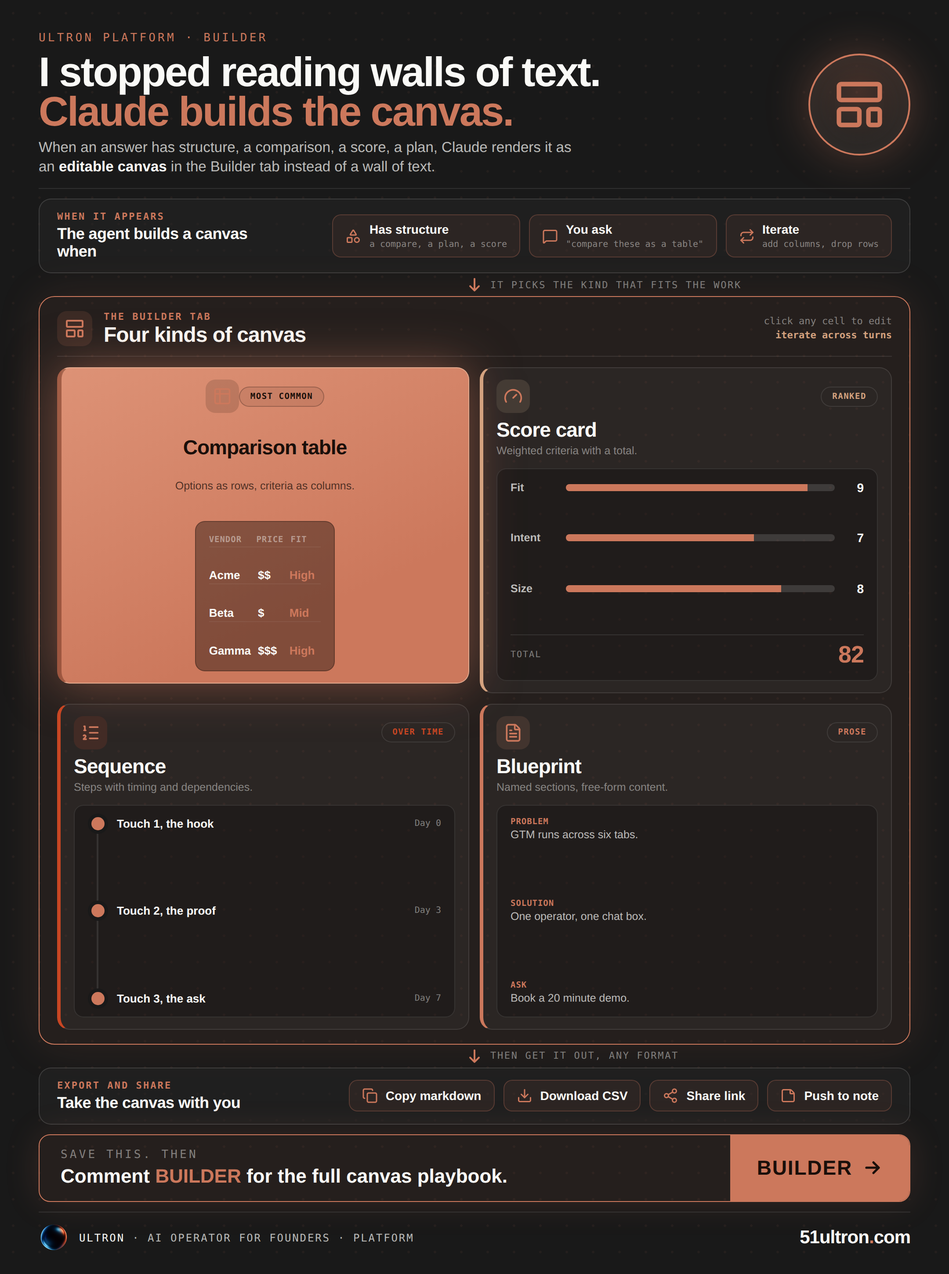
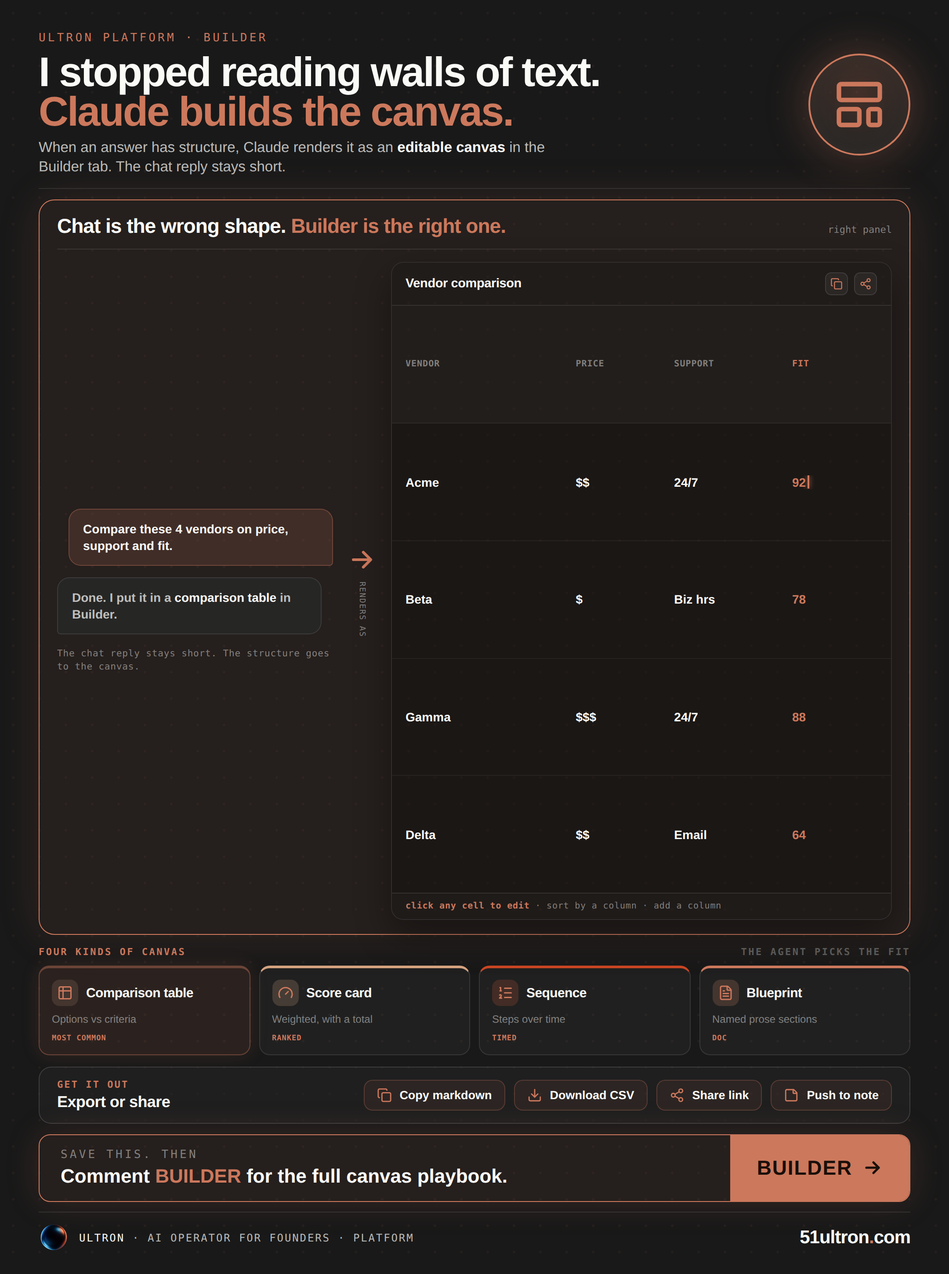
docs-07 Builder LinkedIn: redesign to a distinct archetype (chat-to-canvas)
Operator: it resembled Brain (both used the 2x2 mockup grid); each material must
have its own differentiation criterion. Rebuilt Builder around its own archetype,
the chat-to-canvas transformation: focal split with a short chat thread on the
left, an arrow, and a big realistic editable canvas (a Vendor comparison table
with a sorted column and a cell in edit) on the right. The four canvas kinds now
sit in a horizontal strip (not a 2x2 grid): Comparison (active), Score, Sequence,
Blueprint. Export band + Comment BUILDER. Logged the one-archetype-per-material
rule in analysis. Dark Ultron, 1450px, metadata scrubbed.

https://claude.ai/code/session_018fS7xMwDiJUxoNS3zo3BKw

diff --git a/content/docs-07-builder-linkedin-v1.html b/content/docs-07-builder-linkedin-v1.html
@@ -6,74 +6,64 @@ body{background:#0d0d0d;display:flex;justify-content:center;padding:24px 0;font-
 .frame::before{content:'';position:absolute;inset:0;pointer-events:none;z-index:0;background-image:radial-gradient(rgba(204,120,92,.06) 1.4px,transparent 1.5px);background-size:30px 30px;}
 .atm{position:absolute;inset:0;pointer-events:none;z-index:1;background:radial-gradient(ellipse 56% 26% at 88% -1%,rgba(204,120,92,.18) 0%,transparent 60%),radial-gradient(ellipse 50% 22% at 4% 101%,rgba(212,162,127,.09) 0%,transparent 60%);}
 .frame>*{position:relative;z-index:2;}
-.hero{flex-shrink:0;display:flex;align-items:center;justify-content:space-between;gap:20px;padding-bottom:13px;border-bottom:1px solid var(--rule);margin-bottom:11px;}
+.hero{flex-shrink:0;display:flex;align-items:center;justify-content:space-between;gap:20px;padding-bottom:13px;border-bottom:1px solid var(--rule);margin-bottom:12px;}
 .eye{font-family:'DM Mono',monospace;font-size:13px;font-weight:500;letter-spacing:.2em;text-transform:uppercase;color:var(--book);margin-bottom:8px;}
 .hook{font-weight:900;font-size:47px;line-height:.96;letter-spacing:-1.5px;}.hook em{color:var(--book);font-style:normal;}
 .sub{margin-top:8px;font-size:16.5px;font-weight:500;line-height:1.34;color:var(--ink70);max-width:620px;}.sub b{color:var(--ivory);font-weight:700;}
 .gw{flex-shrink:0;width:116px;height:116px;border-radius:50%;background:radial-gradient(circle at 50% 36%,rgba(204,120,92,.24),var(--slate2) 72%);border:2px solid var(--book);box-shadow:0 0 50px rgba(204,120,92,.32),inset 0 0 30px rgba(204,120,92,.1);display:flex;align-items:center;justify-content:center;}
 .gw svg{width:62px;height:62px;}
 .flow{flex:1;display:flex;flex-direction:column;min-height:0;}
-.arrow{flex-shrink:0;display:flex;align-items:center;justify-content:center;color:var(--book);height:26px;position:relative;}
-.arrow .lbl{position:absolute;left:calc(50% + 18px);font-family:'DM Mono',monospace;font-size:11px;font-weight:500;letter-spacing:.12em;text-transform:uppercase;color:var(--ink46);white-space:nowrap;}
-.arrow svg{width:20px;height:20px;stroke:var(--book);stroke-width:2.4;fill:none;stroke-linecap:round;stroke-linejoin:round;}
-.band{flex-shrink:0;background:rgba(38,38,37,.5);border:1px solid var(--ink14);border-radius:14px;padding:13px 20px;display:flex;align-items:center;gap:18px;}
-.band .bt{flex-shrink:0;}
-.band .bt .k{font-family:'DM Mono',monospace;font-size:11px;font-weight:600;letter-spacing:.14em;text-transform:uppercase;color:var(--book);margin-bottom:4px;}
-.band .bt .h{font-size:18px;font-weight:800;letter-spacing:-.3px;color:var(--ivory);line-height:1.1;max-width:250px;}
+/* FOCAL = chat -> canvas split (Builder's own archetype) */
+.focal{flex:1;min-height:0;background:rgba(204,120,92,.07);border:1.5px solid var(--book);border-radius:18px;box-shadow:0 0 50px rgba(204,120,92,.14);padding:16px 20px;display:flex;flex-direction:column;}
+.focal-h{display:flex;align-items:baseline;gap:12px;flex-shrink:0;padding-bottom:12px;border-bottom:1px solid var(--rule);}
+.focal-h .h{font-size:23px;font-weight:900;letter-spacing:-.5px;color:var(--ivory);}.focal-h .h em{color:var(--book);font-style:normal;}
+.focal-h .meta{margin-left:auto;font-family:'DM Mono',monospace;font-size:11px;color:var(--ink46);}
+.split2{flex:1;min-height:0;display:flex;align-items:stretch;gap:16px;padding-top:14px;}
+.chatcol{width:33%;display:flex;flex-direction:column;justify-content:center;gap:13px;flex-shrink:0;}
+.cbub{padding:13px 16px;font-size:14px;font-weight:600;line-height:1.32;max-width:96%;}
+.cbub.u{background:rgba(204,120,92,.16);border:1px solid rgba(204,120,92,.34);color:var(--ivory);align-self:flex-end;border-radius:14px 14px 4px 14px;}
+.cbub.a{background:var(--slate2);border:1px solid var(--rule);color:var(--ink70);align-self:flex-start;border-radius:14px 14px 14px 4px;}
+.cbub.a b{color:var(--ivory);font-weight:700;}
+.chint{font-family:'DM Mono',monospace;font-size:10.5px;letter-spacing:.04em;color:var(--ink46);line-height:1.4;margin-top:2px;}
+.sarrow2{flex-shrink:0;align-self:center;display:flex;flex-direction:column;align-items:center;gap:8px;color:var(--book);}
+.sarrow2 svg{width:34px;height:34px;stroke:var(--book);stroke-width:2.2;fill:none;stroke-linecap:round;stroke-linejoin:round;}
+.sarrow2 span{font-family:'DM Mono',monospace;font-size:9px;letter-spacing:.1em;text-transform:uppercase;color:var(--ink46);writing-mode:vertical-rl;}
+.cv{flex:1;min-width:0;background:rgba(0,0,0,.26);border:1px solid var(--rule);border-radius:14px;display:flex;flex-direction:column;overflow:hidden;box-shadow:0 16px 40px rgba(0,0,0,.34);}
+.cv-bar{display:flex;align-items:center;justify-content:space-between;padding:11px 16px;border-bottom:1px solid var(--rule);background:rgba(255,255,255,.025);}
+.cv-nm{font-size:14.5px;font-weight:800;color:var(--ivory);letter-spacing:-.2px;}
+.cv-act{display:flex;gap:7px;}.cv-act i{width:26px;height:26px;border-radius:7px;background:rgba(250,250,247,.05);border:1px solid var(--rule);display:flex;align-items:center;justify-content:center;}.cv-act i svg{width:14px;height:14px;}
+.cvtbl{flex:1;display:flex;flex-direction:column;}
+.cvr{display:grid;grid-template-columns:1.25fr .7fr .85fr .65fr;gap:8px;align-items:center;padding:0 16px;border-bottom:1px solid rgba(250,250,247,.05);}
+.cvr:last-child{border-bottom:none;}
+.cvtbl .cvr{flex:1;}
+.cvr span{font-size:14px;font-weight:700;color:var(--ivory);white-space:nowrap;overflow:hidden;text-overflow:ellipsis;}
+.cvr.h{background:rgba(255,255,255,.03);}
+.cvr.h span{font-family:'DM Mono',monospace;font-size:10px;font-weight:600;letter-spacing:.05em;text-transform:uppercase;color:var(--ink46);}
+.cvr .srt,.cvr.h .srt{color:var(--book);}
+.edit{position:relative;color:var(--book) !important;}
+.edit::after{content:'';display:inline-block;width:2px;height:15px;background:var(--book);margin-left:2px;vertical-align:-2px;box-shadow:0 0 6px var(--book);}
+.cv-foot{font-family:'DM Mono',monospace;font-size:10px;letter-spacing:.04em;color:var(--ink46);padding:9px 16px;border-top:1px solid var(--rule);background:rgba(255,255,255,.02);}
+.cv-foot b{color:var(--book);font-weight:600;}
+/* kinds strip (horizontal, not a grid) */
+.mod{flex-shrink:0;margin-top:13px;}
+.sec{font-family:'DM Mono',monospace;font-size:11px;font-weight:600;letter-spacing:.16em;text-transform:uppercase;color:var(--book);margin-bottom:9px;display:flex;justify-content:space-between;}
+.sec .sx{color:var(--ink30);}
+.ksrow{display:grid;grid-template-columns:repeat(4,1fr);gap:10px;}
+.kcard{background:rgba(255,255,255,.03);border:1px solid var(--rule);border-top:3px solid var(--c);border-radius:12px;padding:13px 14px;}
+.kcard.on{background:rgba(204,120,92,.1);border-color:rgba(204,120,92,.4);box-shadow:0 0 22px rgba(204,120,92,.14);}
+.kc-t{display:flex;align-items:center;gap:9px;margin-bottom:8px;}
+.kc-ic{width:30px;height:30px;border-radius:9px;background:color-mix(in srgb,var(--c) 18%,var(--slate2));display:flex;align-items:center;justify-content:center;flex-shrink:0;}.kc-ic svg{width:18px;height:18px;}
+.kc-nm{font-size:15px;font-weight:800;letter-spacing:-.3px;color:var(--ivory);line-height:1;}
+.kc-d{font-size:12px;font-weight:500;color:var(--ink46);line-height:1.3;}
+.kc-tag{font-family:'DM Mono',monospace;font-size:8.5px;font-weight:600;letter-spacing:.06em;text-transform:uppercase;color:var(--book);margin-top:8px;}
+.band{flex-shrink:0;margin-top:13px;background:rgba(38,38,37,.5);border:1px solid var(--ink14);border-radius:14px;padding:13px 20px;display:flex;align-items:center;gap:18px;}
+.band .bt{flex-shrink:0;}.band .bt .k{font-family:'DM Mono',monospace;font-size:11px;font-weight:600;letter-spacing:.14em;text-transform:uppercase;color:var(--book);margin-bottom:4px;}
+.band .bt .h{font-size:18px;font-weight:800;letter-spacing:-.3px;color:var(--ivory);line-height:1.1;}
 .chips{display:flex;gap:10px;flex:1;justify-content:flex-end;flex-wrap:wrap;}
 .chip{display:flex;align-items:center;gap:9px;background:rgba(204,120,92,.08);border:1px solid rgba(204,120,92,.28);border-radius:10px;padding:8px 14px;}
-.chip .ci{width:18px;height:18px;flex-shrink:0;}.chip .ci svg{width:100%;height:100%;}
-.chip .ct{font-size:14px;font-weight:700;color:var(--ivory);line-height:1.05;}.chip .cs{display:block;font-family:'DM Mono',monospace;font-size:10px;font-weight:500;color:var(--ink46);margin-top:2px;}
-.focal{flex:1;min-height:0;background:rgba(204,120,92,.07);border:1.5px solid var(--book);border-radius:18px;box-shadow:0 0 50px rgba(204,120,92,.14);padding:16px 20px;display:flex;flex-direction:column;}
-.focal-h{display:flex;align-items:center;gap:13px;flex-shrink:0;padding-bottom:11px;border-bottom:1px solid var(--rule);}
-.fhi{width:40px;height:40px;border-radius:11px;background:rgba(204,120,92,.14);display:flex;align-items:center;justify-content:center;flex-shrink:0;}.fhi svg{width:24px;height:24px;}
-.focal-h .k{font-family:'DM Mono',monospace;font-size:11px;font-weight:600;letter-spacing:.14em;text-transform:uppercase;color:var(--book);margin-bottom:3px;}
-.focal-h .h{font-size:24px;font-weight:900;letter-spacing:-.5px;color:var(--ivory);line-height:1;}
-.focal-h .meta{margin-left:auto;text-align:right;font-family:'DM Mono',monospace;font-size:11px;font-weight:500;color:var(--ink46);line-height:1.5;}
-.focal-h .meta b{color:var(--kraft);font-weight:700;}
-.bgrid{flex:1;min-height:0;display:grid;grid-template-columns:1fr 1fr;grid-template-rows:1fr 1fr;gap:12px;padding-top:12px;}
-.scard{background:rgba(255,255,255,.03);border:1px solid var(--rule);border-left:4px solid var(--c);border-radius:14px;padding:13px 15px;display:flex;flex-direction:column;}
-.scard.hero{background:linear-gradient(155deg,#dd9276 0%,var(--book) 72%);border:1.5px solid #e3a98d;border-left:5px solid #59281769;box-shadow:0 0 56px rgba(204,120,92,.5);}
-.scard.hero .snm,.scard.hero .sct .stag{color:#1a0f0a;}
-.scard.hero .slead{color:rgba(26,15,10,.72);}
-.scard.hero .sic{background:rgba(26,15,10,.15);}
-.scard.hero .stag{border-color:rgba(26,15,10,.26);background:rgba(26,15,10,.08);}
-.scard.hero .mock{background:rgba(18,11,7,.4);border-color:rgba(26,15,10,.3);}
-.sct{display:flex;align-items:center;justify-content:space-between;margin-bottom:8px;}
-.sic{width:38px;height:38px;border-radius:11px;background:color-mix(in srgb,var(--c) 17%,var(--slate2));display:flex;align-items:center;justify-content:center;}.sic svg{width:22px;height:22px;}
-.stag{font-family:'DM Mono',monospace;font-size:9.5px;font-weight:600;letter-spacing:.08em;text-transform:uppercase;color:var(--c);border:1px solid var(--rule);padding:5px 12px;border-radius:20px;}
-.snm{font-size:23px;font-weight:900;letter-spacing:-.5px;color:var(--ivory);line-height:1;}
-.slead{font-size:12.5px;font-weight:500;color:var(--ink46);line-height:1.25;margin-top:5px;}
-.mock{flex:1;margin-top:11px;background:rgba(0,0,0,.24);border:1px solid var(--rule);border-radius:11px;padding:13px 15px;display:flex;flex-direction:column;overflow:hidden;}
-/* comparison table */
-.ctbl{flex:1;display:flex;flex-direction:column;justify-content:space-between;}
-.ctr{display:grid;grid-template-columns:1.2fr .7fr .9fr;gap:8px;align-items:center;border-bottom:1px solid rgba(250,250,247,.06);padding:2px 0;}
-.ctr:last-child{border-bottom:none;}
-.ctr span{font-size:13px;font-weight:700;color:var(--ivory);}
-.ctr.h span{font-family:'DM Mono',monospace;font-size:9.5px;font-weight:600;letter-spacing:.05em;text-transform:uppercase;color:var(--ink46);}
-.ctr .srt{color:var(--book);}
-/* score card */
-.scc{flex:1;display:flex;flex-direction:column;justify-content:space-between;}
-.scr{display:flex;align-items:center;gap:11px;}
-.scr .nm{font-size:12.5px;font-weight:600;color:var(--ink70);width:52px;flex-shrink:0;}
-.scr .bar{flex:1;height:8px;border-radius:4px;background:var(--ink14);overflow:hidden;}.scr .bar i{display:block;height:100%;background:var(--book);}
-.scr .v{font-size:14px;font-weight:800;color:var(--ivory);width:22px;text-align:right;}
-.sctot{display:flex;align-items:center;justify-content:space-between;border-top:1px solid var(--rule);padding-top:7px;margin-top:2px;}
-.sctot .l{font-family:'DM Mono',monospace;font-size:10px;letter-spacing:.1em;text-transform:uppercase;color:var(--ink46);}
-.sctot .big{font-size:27px;font-weight:900;color:var(--book);letter-spacing:-.5px;}
-/* sequence */
-.sqc{flex:1;display:flex;flex-direction:column;justify-content:space-between;position:relative;padding-left:4px;}
-.sqc::before{content:'';position:absolute;left:10px;top:8px;bottom:8px;width:2px;background:var(--rule);}
-.sqs{display:flex;align-items:center;gap:14px;position:relative;z-index:2;}
-.sqs .dot{width:15px;height:15px;border-radius:50%;background:var(--book);flex-shrink:0;box-shadow:0 0 0 4px var(--slate);}
-.sqs .lb{flex:1;font-size:13px;font-weight:700;color:var(--ivory);}
-.sqs .day{font-family:'DM Mono',monospace;font-size:10px;font-weight:500;color:var(--ink46);}
-/* blueprint */
-.bpc{flex:1;display:flex;flex-direction:column;justify-content:space-between;}
-.bps{display:flex;flex-direction:column;gap:2px;}
-.bps .sn{font-family:'DM Mono',monospace;font-size:9.5px;font-weight:600;letter-spacing:.05em;text-transform:uppercase;color:var(--book);}
-.bps .st{font-size:12.5px;font-weight:500;color:var(--ink70);line-height:1.2;}
-.cta{flex-shrink:0;margin-top:11px;display:flex;align-items:stretch;border:1px solid var(--book);border-radius:13px;overflow:hidden;box-shadow:0 0 40px rgba(204,120,92,.16);}
+.chip .ci{width:17px;height:17px;flex-shrink:0;}.chip .ci svg{width:100%;height:100%;}
+.chip .ct{font-size:13.5px;font-weight:700;color:var(--ivory);}
+.cta{flex-shrink:0;margin-top:12px;display:flex;align-items:stretch;border:1px solid var(--book);border-radius:13px;overflow:hidden;box-shadow:0 0 40px rgba(204,120,92,.16);}
 .cta-l{flex:1;padding:15px 24px;display:flex;flex-direction:column;justify-content:center;gap:4px;background:rgba(204,120,92,.07);}
 .cta-k{font-family:'DM Mono',monospace;font-size:13px;font-weight:500;letter-spacing:.2em;text-transform:uppercase;color:var(--ink46);}
 .cta-t{font-size:22px;font-weight:700;color:var(--ivory);line-height:1.2;}.cta-t b{color:var(--book);font-weight:900;}
@@ -83,4 +73,4 @@ body{background:#0d0d0d;display:flex;justify-content:center;padding:24px 0;font-
 .fl{display:flex;align-items:center;gap:12px;min-width:0;}.flogo{width:34px;height:34px;border-radius:50%;object-fit:cover;}
 .ftx{font-family:'DM Mono',monospace;font-size:12px;font-weight:400;letter-spacing:.12em;text-transform:uppercase;color:var(--ink70);}.ftx b{color:var(--ivory);font-weight:500;}
 .furl{font-weight:900;font-size:21px;letter-spacing:-.5px;color:var(--ivory);}.furl em{color:var(--book);font-style:normal;}
-</style></head><body><div class="frame" id="artifact"><div class="atm"></div><div class="hero"><div><div class="eye">Ultron Platform &middot; Builder</div><div class="hook">I stopped reading walls of text.<br><em>Claude builds the canvas.</em></div><div class="sub">When an answer has structure, a comparison, a score, a plan, Claude renders it as an <b>editable canvas</b> in the Builder tab instead of a wall of text.</div></div><div class="gw"><svg xmlns="http://www.w3.org/2000/svg" width="1em" height="1em" viewBox="0 0 24 24"><g fill="none" stroke="#CC785C" stroke-linecap="round" stroke-linejoin="round" stroke-width="2"><rect width="18" height="7" x="3" y="3" rx="1"/><rect width="9" height="7" x="3" y="14" rx="1"/><rect width="5" height="7" x="16" y="14" rx="1"/></g></svg></div></div><div class="flow"><div class="band"><div class="bt"><div class="k">When it appears</div><div class="h">The agent builds a canvas when</div></div><div class="chips"><div class="chip"><span class="ci"><svg xmlns="http://www.w3.org/2000/svg" width="1em" height="1em" viewBox="0 0 24 24"><g fill="none" stroke="#CC785C" stroke-linecap="round" stroke-linejoin="round" stroke-width="2"><path d="M8.3 10a.7.7 0 0 1-.626-1.079L11.4 3a.7.7 0 0 1 1.198-.043L16.3 8.9a.7.7 0 0 1-.572 1.1Z"/><rect width="7" height="7" x="3" y="14" rx="1"/><circle cx="17.5" cy="17.5" r="3.5"/></g></svg></span><span><span class="ct">Has structure</span><span class="cs">a compare, a plan, a score</span></span></div><div class="chip"><span class="ci"><svg xmlns="http://www.w3.org/2000/svg" width="1em" height="1em" viewBox="0 0 24 24"><path fill="none" stroke="#CC785C" stroke-linecap="round" stroke-linejoin="round" stroke-width="2" d="M22 17a2 2 0 0 1-2 2H6.828a2 2 0 0 0-1.414.586l-2.202 2.202A.71.71 0 0 1 2 21.286V5a2 2 0 0 1 2-2h16a2 2 0 0 1 2 2z"/></svg></span><span><span class="ct">You ask</span><span class="cs">"compare these as a table"</span></span></div><div class="chip"><span class="ci"><svg xmlns="http://www.w3.org/2000/svg" width="1em" height="1em" viewBox="0 0 24 24"><g fill="none" stroke="#CC785C" stroke-linecap="round" stroke-linejoin="round" stroke-width="2"><path d="m17 2l4 4l-4 4"/><path d="M3 11v-1a4 4 0 0 1 4-4h14M7 22l-4-4l4-4"/><path d="M21 13v1a4 4 0 0 1-4 4H3"/></g></svg></span><span><span class="ct">Iterate</span><span class="cs">add columns, drop rows</span></span></div></div></div><div class="arrow"><svg viewBox="0 0 24 24"><path d="M12 4v16M6 14l6 6 6-6"/></svg><span class="lbl">it picks the kind that fits the work</span></div><div class="focal"><div class="focal-h"><div class="fhi"><svg xmlns="http://www.w3.org/2000/svg" width="1em" height="1em" viewBox="0 0 24 24"><g fill="none" stroke="#CC785C" stroke-linecap="round" stroke-linejoin="round" stroke-width="2"><rect width="18" height="7" x="3" y="3" rx="1"/><rect width="9" height="7" x="3" y="14" rx="1"/><rect width="5" height="7" x="16" y="14" rx="1"/></g></svg></div><div><div class="k">The Builder tab</div><div class="h">Four kinds of canvas</div></div><div class="meta">click any cell to edit<br><b>iterate across turns</b></div></div><div class="bgrid"><div class="scard hero" style="--c:var(--book)"><div class="sct"><span class="sic"><svg xmlns="http://www.w3.org/2000/svg" width="1em" height="1em" viewBox="0 0 24 24"><path fill="none" stroke="#CC785C" stroke-linecap="round" stroke-linejoin="round" stroke-width="2" d="M9 3H5a2 2 0 0 0-2 2v4m6-6h10a2 2 0 0 1 2 2v4M9 3v18m0 0h10a2 2 0 0 0 2-2V9M9 21H5a2 2 0 0 1-2-2V9m0 0h18"/></svg></span><span class="stag">most common</span></div><div class="snm">Comparison table</div><div class="slead">Options as rows, criteria as columns.</div><div class="mock"><div class="ctbl"><div class="ctr h"><span>Vendor</span><span>Price</span><span class="srt">Fit</span></div><div class="ctr"><span>Acme</span><span>$$</span><span class="srt">High</span></div><div class="ctr"><span>Beta</span><span>$</span><span class="srt">Mid</span></div><div class="ctr"><span>Gamma</span><span>$$$</span><span class="srt">High</span></div></div></div></div><div class="scard" style="--c:var(--kraft)"><div class="sct"><span class="sic"><svg xmlns="http://www.w3.org/2000/svg" width="1em" height="1em" viewBox="0 0 24 24"><path fill="none" stroke="#CC785C" stroke-linecap="round" stroke-linejoin="round" stroke-width="2" d="m12 14l4-4M3.34 19a10 10 0 1 1 17.32 0"/></svg></span><span class="stag">ranked</span></div><div class="snm">Score card</div><div class="slead">Weighted criteria with a total.</div><div class="mock"><div class="scc"><div class="scr"><span class="nm">Fit</span><span class="bar"><i style="width:90%"></i></span><span class="v">9</span></div><div class="scr"><span class="nm">Intent</span><span class="bar"><i style="width:70%"></i></span><span class="v">7</span></div><div class="scr"><span class="nm">Size</span><span class="bar"><i style="width:80%"></i></span><span class="v">8</span></div><div class="sctot"><span class="l">Total</span><span class="big">82</span></div></div></div></div><div class="scard" style="--c:var(--book-d)"><div class="sct"><span class="sic"><svg xmlns="http://www.w3.org/2000/svg" width="1em" height="1em" viewBox="0 0 24 24"><path fill="none" stroke="#CC785C" stroke-linecap="round" stroke-linejoin="round" stroke-width="2" d="M11 5h10m-10 7h10m-10 7h10M4 4h1v5M4 9h2m.5 11H3.4c0-1 2.6-1.925 2.6-3.5a1.5 1.5 0 0 0-2.6-1.02"/></svg></span><span class="stag">over time</span></div><div class="snm">Sequence</div><div class="slead">Steps with timing and dependencies.</div><div class="mock"><div class="sqc"><div class="sqs"><span class="dot"></span><span class="lb">Touch 1, the hook</span><span class="day">Day 0</span></div><div class="sqs"><span class="dot"></span><span class="lb">Touch 2, the proof</span><span class="day">Day 3</span></div><div class="sqs"><span class="dot"></span><span class="lb">Touch 3, the ask</span><span class="day">Day 7</span></div></div></div></div><div class="scard" style="--c:var(--book)"><div class="sct"><span class="sic"><svg xmlns="http://www.w3.org/2000/svg" width="1em" height="1em" viewBox="0 0 24 24"><g fill="none" stroke="#CC785C" stroke-linecap="round" stroke-linejoin="round" stroke-width="2"><path d="M6 22a2 2 0 0 1-2-2V4a2 2 0 0 1 2-2h8a2.4 2.4 0 0 1 1.704.706l3.588 3.588A2.4 2.4 0 0 1 20 8v12a2 2 0 0 1-2 2z"/><path d="M14 2v5a1 1 0 0 0 1 1h5M10 9H8m8 4H8m8 4H8"/></g></svg></span><span class="stag">prose</span></div><div class="snm">Blueprint</div><div class="slead">Named sections, free-form content.</div><div class="mock"><div class="bpc"><div class="bps"><span class="sn">Problem</span><span class="st">GTM runs across six tabs.</span></div><div class="bps"><span class="sn">Solution</span><span class="st">One operator, one chat box.</span></div><div class="bps"><span class="sn">Ask</span><span class="st">Book a 20 minute demo.</span></div></div></div></div></div></div><div class="arrow"><svg viewBox="0 0 24 24"><path d="M12 4v16M6 14l6 6 6-6"/></svg><span class="lbl">then get it out, any format</span></div><div class="band"><div class="bt"><div class="k">Export and share</div><div class="h">Take the canvas with you</div></div><div class="chips"><div class="chip"><span class="ci"><svg xmlns="http://www.w3.org/2000/svg" width="1em" height="1em" viewBox="0 0 24 24"><g fill="none" stroke="#CC785C" stroke-linecap="round" stroke-linejoin="round" stroke-width="2"><rect width="14" height="14" x="8" y="8" rx="2" ry="2"/><path d="M4 16c-1.1 0-2-.9-2-2V4c0-1.1.9-2 2-2h10c1.1 0 2 .9 2 2"/></g></svg></span><span class="ct">Copy markdown</span></div><div class="chip"><span class="ci"><svg xmlns="http://www.w3.org/2000/svg" width="1em" height="1em" viewBox="0 0 24 24"><g fill="none" stroke="#CC785C" stroke-linecap="round" stroke-linejoin="round" stroke-width="2"><path d="M12 15V3m9 12v4a2 2 0 0 1-2 2H5a2 2 0 0 1-2-2v-4"/><path d="m7 10l5 5l5-5"/></g></svg></span><span class="ct">Download CSV</span></div><div class="chip"><span class="ci"><svg xmlns="http://www.w3.org/2000/svg" width="1em" height="1em" viewBox="0 0 24 24"><g fill="none" stroke="#CC785C" stroke-linecap="round" stroke-linejoin="round" stroke-width="2"><circle cx="18" cy="5" r="3"/><circle cx="6" cy="12" r="3"/><circle cx="18" cy="19" r="3"/><path d="m8.59 13.51l6.83 3.98m-.01-10.98l-6.82 3.98"/></g></svg></span><span class="ct">Share link</span></div><div class="chip"><span class="ci"><svg xmlns="http://www.w3.org/2000/svg" width="1em" height="1em" viewBox="0 0 24 24"><g fill="none" stroke="#CC785C" stroke-linecap="round" stroke-linejoin="round" stroke-width="2"><path d="M21 9a2.4 2.4 0 0 0-.706-1.706l-3.588-3.588A2.4 2.4 0 0 0 15 3H5a2 2 0 0 0-2 2v14a2 2 0 0 0 2 2h14a2 2 0 0 0 2-2z"/><path d="M15 3v5a1 1 0 0 0 1 1h5"/></g></svg></span><span class="ct">Push to note</span></div></div></div></div><div class="cta"><div class="cta-l"><div class="cta-k">Save this. Then</div><div class="cta-t">Comment <b>BUILDER</b> for the full canvas playbook.</div></div><div class="cta-chip">BUILDER <svg viewBox="0 0 24 24"><path d="M5 12h14M13 6l6 6-6 6"/></svg></div></div><div class="ftr"><div class="fl"><img class="flogo" src="__LOGO__" alt="Ultron"><div class="ftx"><b>ULTRON</b> &middot; AI OPERATOR FOR FOUNDERS &middot; PLATFORM</div></div><div class="furl">51ultron<em>.</em>com</div></div></div></body></html>
+</style></head><body><div class="frame" id="artifact"><div class="atm"></div><div class="hero"><div><div class="eye">Ultron Platform &middot; Builder</div><div class="hook">I stopped reading walls of text.<br><em>Claude builds the canvas.</em></div><div class="sub">When an answer has structure, Claude renders it as an <b>editable canvas</b> in the Builder tab. The chat reply stays short.</div></div><div class="gw"><svg xmlns="http://www.w3.org/2000/svg" width="1em" height="1em" viewBox="0 0 24 24"><g fill="none" stroke="#CC785C" stroke-linecap="round" stroke-linejoin="round" stroke-width="2"><rect width="18" height="7" x="3" y="3" rx="1"/><rect width="9" height="7" x="3" y="14" rx="1"/><rect width="5" height="7" x="16" y="14" rx="1"/></g></svg></div></div><div class="flow"><div class="focal"><div class="focal-h"><div class="h">Chat is the wrong shape. <em>Builder is the right one.</em></div><div class="meta">right panel</div></div><div class="split2"><div class="chatcol"><div class="cbub u">Compare these 4 vendors on price, support and fit.</div><div class="cbub a">Done. I put it in a <b>comparison table</b> in Builder.</div><div class="chint">The chat reply stays short. The structure goes to the canvas.</div></div><div class="sarrow2"><svg viewBox="0 0 24 24"><path d="M5 12h14M13 6l6 6-6 6"/></svg><span>renders as</span></div><div class="cv"><div class="cv-bar"><span class="cv-nm">Vendor comparison</span><div class="cv-act"><i><svg xmlns="http://www.w3.org/2000/svg" width="1em" height="1em" viewBox="0 0 24 24"><g fill="none" stroke="#CC785C" stroke-linecap="round" stroke-linejoin="round" stroke-width="2"><rect width="14" height="14" x="8" y="8" rx="2" ry="2"/><path d="M4 16c-1.1 0-2-.9-2-2V4c0-1.1.9-2 2-2h10c1.1 0 2 .9 2 2"/></g></svg></i><i><svg xmlns="http://www.w3.org/2000/svg" width="1em" height="1em" viewBox="0 0 24 24"><g fill="none" stroke="#CC785C" stroke-linecap="round" stroke-linejoin="round" stroke-width="2"><circle cx="18" cy="5" r="3"/><circle cx="6" cy="12" r="3"/><circle cx="18" cy="19" r="3"/><path d="m8.59 13.51l6.83 3.98m-.01-10.98l-6.82 3.98"/></g></svg></i></div></div><div class="cvtbl"><div class="cvr h"><span>Vendor</span><span>Price</span><span>Support</span><span class="srt">Fit</span></div><div class="cvr"><span>Acme</span><span>$$</span><span>24/7</span><span class="edit srt">92</span></div><div class="cvr"><span>Beta</span><span>$</span><span>Biz hrs</span><span class="srt">78</span></div><div class="cvr"><span>Gamma</span><span>$$$</span><span>24/7</span><span class="srt">88</span></div><div class="cvr"><span>Delta</span><span>$$</span><span>Email</span><span class="srt">64</span></div></div><div class="cv-foot"><b>click any cell to edit</b> &middot; sort by a column &middot; add a column</div></div></div></div><div class="mod"><div class="sec"><span>Four kinds of canvas</span><span class="sx">the agent picks the fit</span></div><div class="ksrow"><div class="kcard on" style="--c:var(--book)"><div class="kc-t"><span class="kc-ic"><svg xmlns="http://www.w3.org/2000/svg" width="1em" height="1em" viewBox="0 0 24 24"><path fill="none" stroke="#CC785C" stroke-linecap="round" stroke-linejoin="round" stroke-width="2" d="M9 3H5a2 2 0 0 0-2 2v4m6-6h10a2 2 0 0 1 2 2v4M9 3v18m0 0h10a2 2 0 0 0 2-2V9M9 21H5a2 2 0 0 1-2-2V9m0 0h18"/></svg></span><span class="kc-nm">Comparison table</span></div><div class="kc-d">Options vs criteria</div><div class="kc-tag">most common</div></div><div class="kcard" style="--c:var(--kraft)"><div class="kc-t"><span class="kc-ic"><svg xmlns="http://www.w3.org/2000/svg" width="1em" height="1em" viewBox="0 0 24 24"><path fill="none" stroke="#CC785C" stroke-linecap="round" stroke-linejoin="round" stroke-width="2" d="m12 14l4-4M3.34 19a10 10 0 1 1 17.32 0"/></svg></span><span class="kc-nm">Score card</span></div><div class="kc-d">Weighted, with a total</div><div class="kc-tag">ranked</div></div><div class="kcard" style="--c:var(--book-d)"><div class="kc-t"><span class="kc-ic"><svg xmlns="http://www.w3.org/2000/svg" width="1em" height="1em" viewBox="0 0 24 24"><path fill="none" stroke="#CC785C" stroke-linecap="round" stroke-linejoin="round" stroke-width="2" d="M11 5h10m-10 7h10m-10 7h10M4 4h1v5M4 9h2m.5 11H3.4c0-1 2.6-1.925 2.6-3.5a1.5 1.5 0 0 0-2.6-1.02"/></svg></span><span class="kc-nm">Sequence</span></div><div class="kc-d">Steps over time</div><div class="kc-tag">timed</div></div><div class="kcard" style="--c:var(--book)"><div class="kc-t"><span class="kc-ic"><svg xmlns="http://www.w3.org/2000/svg" width="1em" height="1em" viewBox="0 0 24 24"><g fill="none" stroke="#CC785C" stroke-linecap="round" stroke-linejoin="round" stroke-width="2"><path d="M6 22a2 2 0 0 1-2-2V4a2 2 0 0 1 2-2h8a2.4 2.4 0 0 1 1.704.706l3.588 3.588A2.4 2.4 0 0 1 20 8v12a2 2 0 0 1-2 2z"/><path d="M14 2v5a1 1 0 0 0 1 1h5M10 9H8m8 4H8m8 4H8"/></g></svg></span><span class="kc-nm">Blueprint</span></div><div class="kc-d">Named prose sections</div><div class="kc-tag">doc</div></div></div></div><div class="band"><div class="bt"><div class="k">Get it out</div><div class="h">Export or share</div></div><div class="chips"><div class="chip"><span class="ci"><svg xmlns="http://www.w3.org/2000/svg" width="1em" height="1em" viewBox="0 0 24 24"><g fill="none" stroke="#CC785C" stroke-linecap="round" stroke-linejoin="round" stroke-width="2"><rect width="14" height="14" x="8" y="8" rx="2" ry="2"/><path d="M4 16c-1.1 0-2-.9-2-2V4c0-1.1.9-2 2-2h10c1.1 0 2 .9 2 2"/></g></svg></span><span class="ct">Copy markdown</span></div><div class="chip"><span class="ci"><svg xmlns="http://www.w3.org/2000/svg" width="1em" height="1em" viewBox="0 0 24 24"><g fill="none" stroke="#CC785C" stroke-linecap="round" stroke-linejoin="round" stroke-width="2"><path d="M12 15V3m9 12v4a2 2 0 0 1-2 2H5a2 2 0 0 1-2-2v-4"/><path d="m7 10l5 5l5-5"/></g></svg></span><span class="ct">Download CSV</span></div><div class="chip"><span class="ci"><svg xmlns="http://www.w3.org/2000/svg" width="1em" height="1em" viewBox="0 0 24 24"><g fill="none" stroke="#CC785C" stroke-linecap="round" stroke-linejoin="round" stroke-width="2"><circle cx="18" cy="5" r="3"/><circle cx="6" cy="12" r="3"/><circle cx="18" cy="19" r="3"/><path d="m8.59 13.51l6.83 3.98m-.01-10.98l-6.82 3.98"/></g></svg></span><span class="ct">Share link</span></div><div class="chip"><span class="ci"><svg xmlns="http://www.w3.org/2000/svg" width="1em" height="1em" viewBox="0 0 24 24"><g fill="none" stroke="#CC785C" stroke-linecap="round" stroke-linejoin="round" stroke-width="2"><path d="M21 9a2.4 2.4 0 0 0-.706-1.706l-3.588-3.588A2.4 2.4 0 0 0 15 3H5a2 2 0 0 0-2 2v14a2 2 0 0 0 2 2h14a2 2 0 0 0 2-2z"/><path d="M15 3v5a1 1 0 0 0 1 1h5"/></g></svg></span><span class="ct">Push to note</span></div></div></div></div><div class="cta"><div class="cta-l"><div class="cta-k">Save this. Then</div><div class="cta-t">Comment <b>BUILDER</b> for the full canvas playbook.</div></div><div class="cta-chip">BUILDER <svg viewBox="0 0 24 24"><path d="M5 12h14M13 6l6 6-6 6"/></svg></div></div><div class="ftr"><div class="fl"><img class="flogo" src="__LOGO__" alt="Ultron"><div class="ftx"><b>ULTRON</b> &middot; AI OPERATOR FOR FOUNDERS &middot; PLATFORM</div></div><div class="furl">51ultron<em>.</em>com</div></div></div></body></html>

diff --git a/analysis/reference-layouts.md b/analysis/reference-layouts.md
@@ -75,3 +75,11 @@ mini data table + progress bar) was applied INSIDE the central focal panel only,
 - FILL LESSON (operator, again): bounding-box coverage is misleading - flex:1 rows stretch to 'cover' a tall card while the text floats with big gaps. Real density = ENOUGH rows so each row is ~28-34px with readable text, not 50px+. Rule: a dense data card needs ~7 rows; if fewer fit, shrink the card (add another section) rather than stretch rows. docs-06 Brain surfaces fixed to 7 tight rows + a Search band to shrink the focal.
 - docs-06 Brain LinkedIn REDESIGN (operator: stop using key:value tables, they look bad): the 4 surface cards are now MINI PRODUCT MOCKUPS, not tables - Notes=a note editor (title+edit+text lines+pills), Memories=a memory record (session-summary tag + kind chips), Files=a real file list (named files + type badges + encrypted), Agreements=a signing track (Draft>Sent>Signed + signers). Shows what each surface looks like in-product. Reusable pattern: prefer a representative mini-mockup over a spec table.
 - docs-06 Brain TikTok: infographic (reuses the approved Brain LinkedIn mockup design, 1080x1450) + carousel (8 slides 1080x1920). Carousel uses mockup language, not tables: cover > write-paths (3 icon rows) > Notes+Memories (2 stacked product mockups, Memories hero) > Files+Agreements (2 mockups) > retrieval (3 signal cards) > search (bar + grouped results) > with/without split > CTA BRAIN. Safe-zone top 250, title congruence 0px spread, no overflow. Lesson: on tall 1920 slides, two ~410px mockups fill far better than one stretched mockup.
+
+## DIFFERENTIATION CRITERION (operator, binding): one distinct archetype per material
+Materials must NOT share a layout template. Each gets its own visual archetype:
+- docs-04 Workforce = radial orbit (hub + nodes)
+- docs-05 Background Jobs = vertical journey (entry > focal mission > 4-way branch > output)
+- docs-06 Brain = 2x2 grid of surface mockups (hero = Memories solid)
+- docs-07 Builder = chat-to-canvas SPLIT (chat left > arrow > big editable canvas right) + a horizontal 4-kind strip
+Before building a new material, pick an archetype not yet used. Reusing the prior one (e.g., Brain's 2x2) is a defect.
